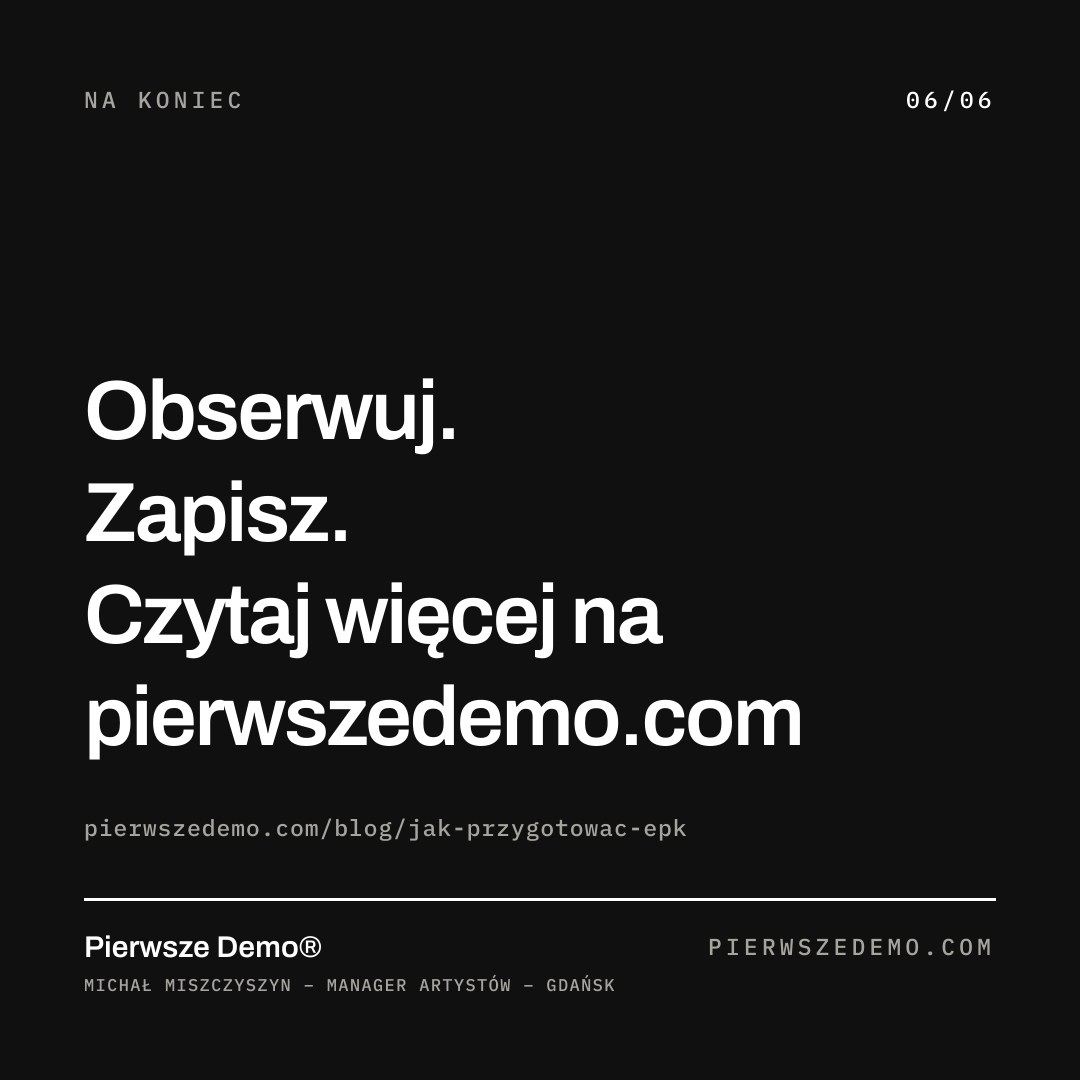
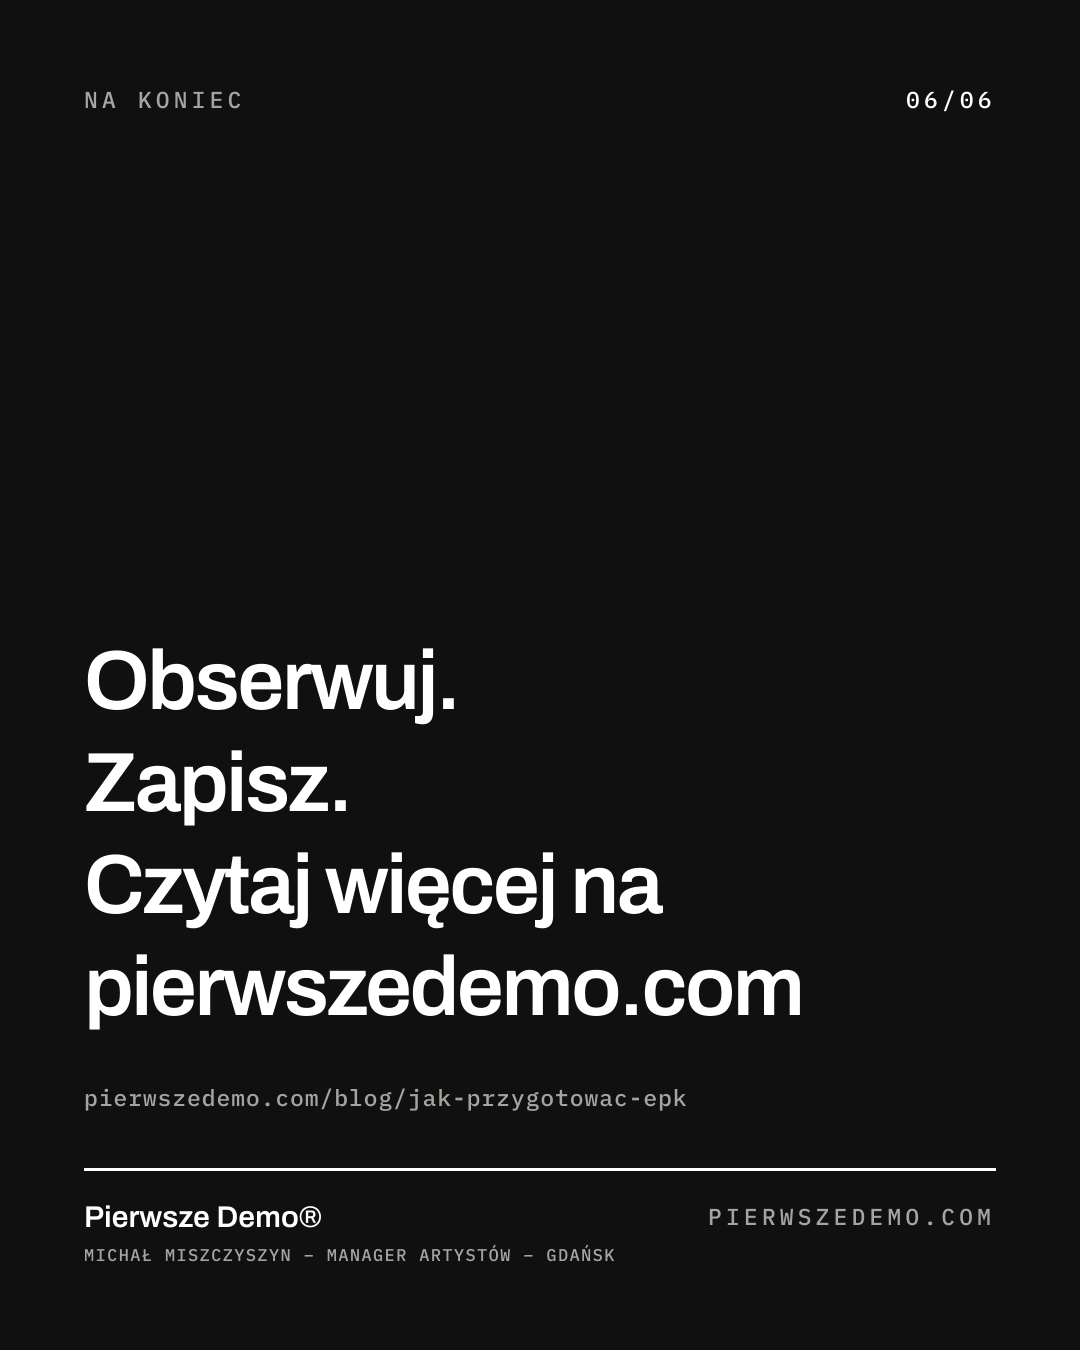
feat(ig): kadr 1080×1350 (4:5) zamiast kwadratu
Pionowy 4:5 to najwyższy format, jaki Instagram pokazuje w feedzie bez
przycinania – kwadrat oddaje ok. 20% wysokości ekranu sąsiednim postom.
Układ slajdów bez zmian, karuzela EPK przegenerowana.

diff --git a/.agents/skills/instagram-carousel/SKILL.md b/.agents/skills/instagram-carousel/SKILL.md
@@ -1,6 +1,6 @@
 ---
 name: instagram-carousel
-description: Generuje karuzelę na Instagram z istniejącego wpisu na blogu pierwszedemo.com – kwadratowe grafiki 1080×1080 (okładka z hookiem, 1–4 slajdy z esencją wpisu, slajd CTA) plus gotowy opis posta. Grafiki rysuje skrypt satori+sharp w języku wizualnym strony (biel, twarda linia, Archivo, IBM Plex Mono); wynik ląduje w instagram/<slug>/. Użyj, gdy pada „karuzela na Instagram”, „grafiki na IG”, „post na Instagram z wpisu”, „instagramowa wersja wpisu”, „promocja wpisu w social mediach”.
+description: Generuje karuzelę na Instagram z istniejącego wpisu na blogu pierwszedemo.com – pionowe grafiki 1080×1350 (4:5) (okładka z hookiem, 1–4 slajdy z esencją wpisu, slajd CTA) plus gotowy opis posta. Grafiki rysuje skrypt satori+sharp w języku wizualnym strony (biel, twarda linia, Archivo, IBM Plex Mono); wynik ląduje w instagram/<slug>/. Użyj, gdy pada „karuzela na Instagram”, „grafiki na IG”, „post na Instagram z wpisu”, „instagramowa wersja wpisu”, „promocja wpisu w social mediach”.
 ---
 
 # instagram-carousel
@@ -114,7 +114,7 @@ bun .agents/skills/instagram-carousel/scripts/generate.mjs <slug>
 
 Powstaje `instagram/<slug>/01.png` (okładka), `02.png…` (treść), ostatni numer
 to CTA na czarnym tle. Skrypt najpierw usuwa stare `NN.png` z katalogu, więc
-po skróceniu karuzeli nie zostają slajdy z nieaktualną numeracją. PNG 1080×1080 – Instagram i tak przekompresuje je do
+po skróceniu karuzeli nie zostają slajdy z nieaktualną numeracją. PNG 1080×1350 (4:5) – Instagram i tak przekompresuje je do
 JPG, ale płaskie plamy i ostre krawędzie tej estetyki wychodzą z PNG najczyściej.
 
 ## Krok 5 – kontrola wzrokowa

diff --git a/AGENTS.md b/AGENTS.md
@@ -219,7 +219,7 @@ They are expressed as `clamp()`/`minmax()` or gated behind `lg:`.
   `blog-post-factory` and `instagram-carousel` are this repo's own skills and
   are deliberately *not* in `skills-lock.json`: that file pins upstream skills
   by `computedHash`, and a locally authored one would fail every sync.
-- `instagram-carousel` turns a published post into a 1080×1080 carousel
+- `instagram-carousel` turns a published post into a 1080×1350 (4:5) carousel
   (cover / 1–4 content slides / CTA) plus a caption, written to
   `instagram/<slug>/`. Its `scripts/generate.mjs` mirrors `src/og.ts`
   (satori + sharp, same palette and footer); it vendors its own
